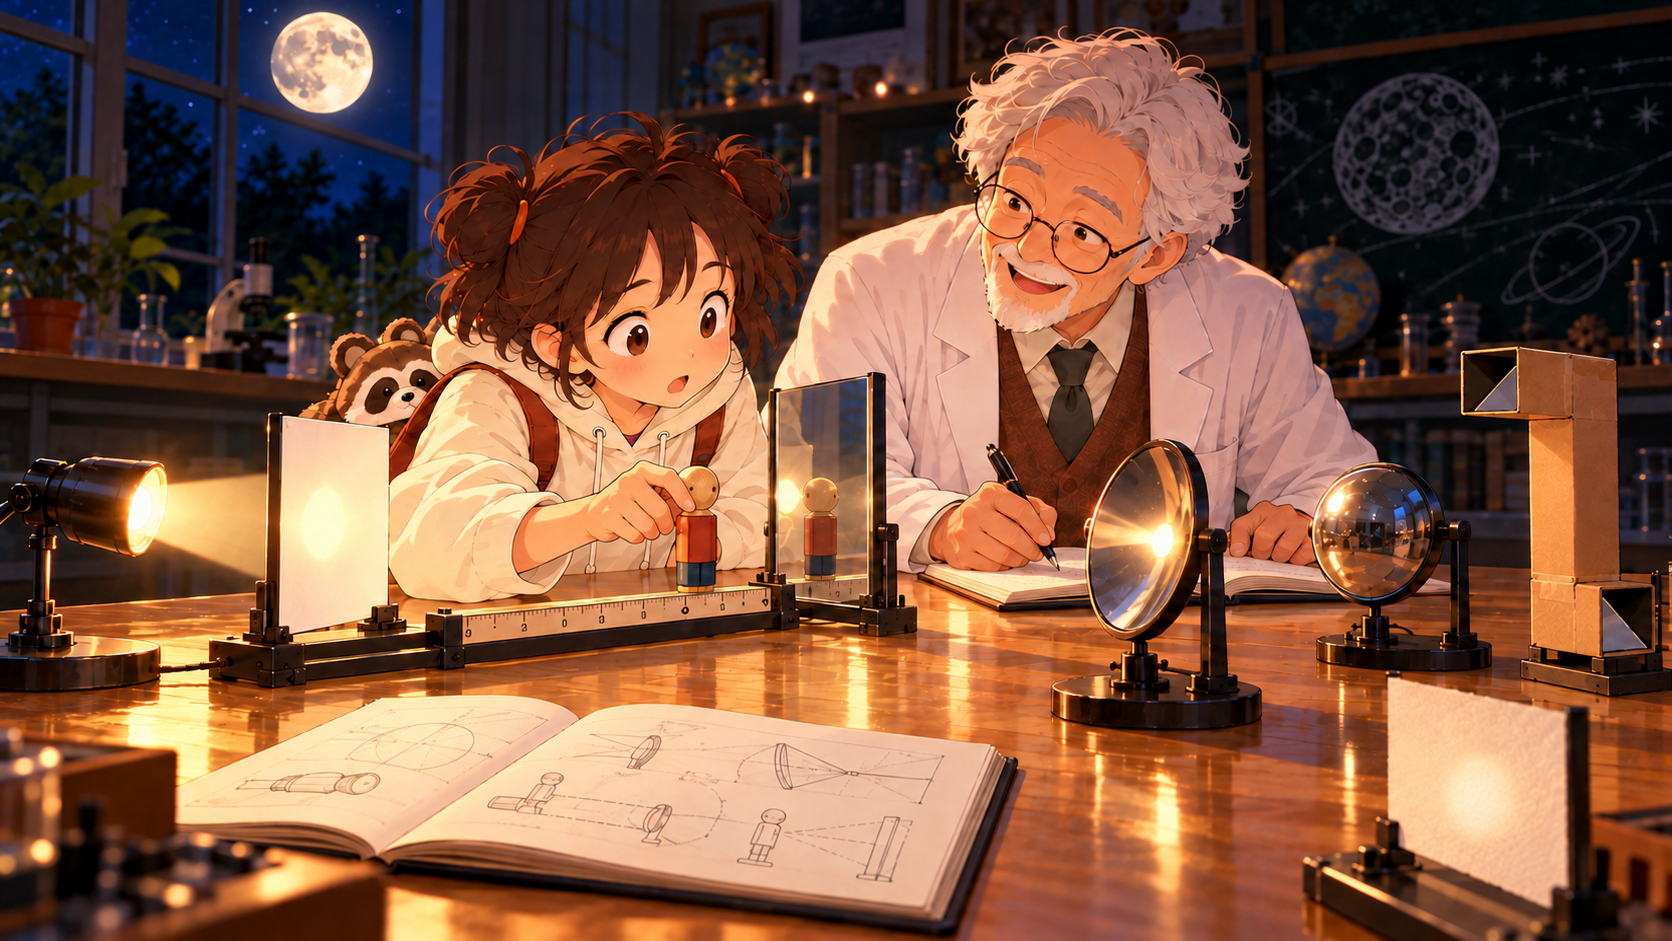
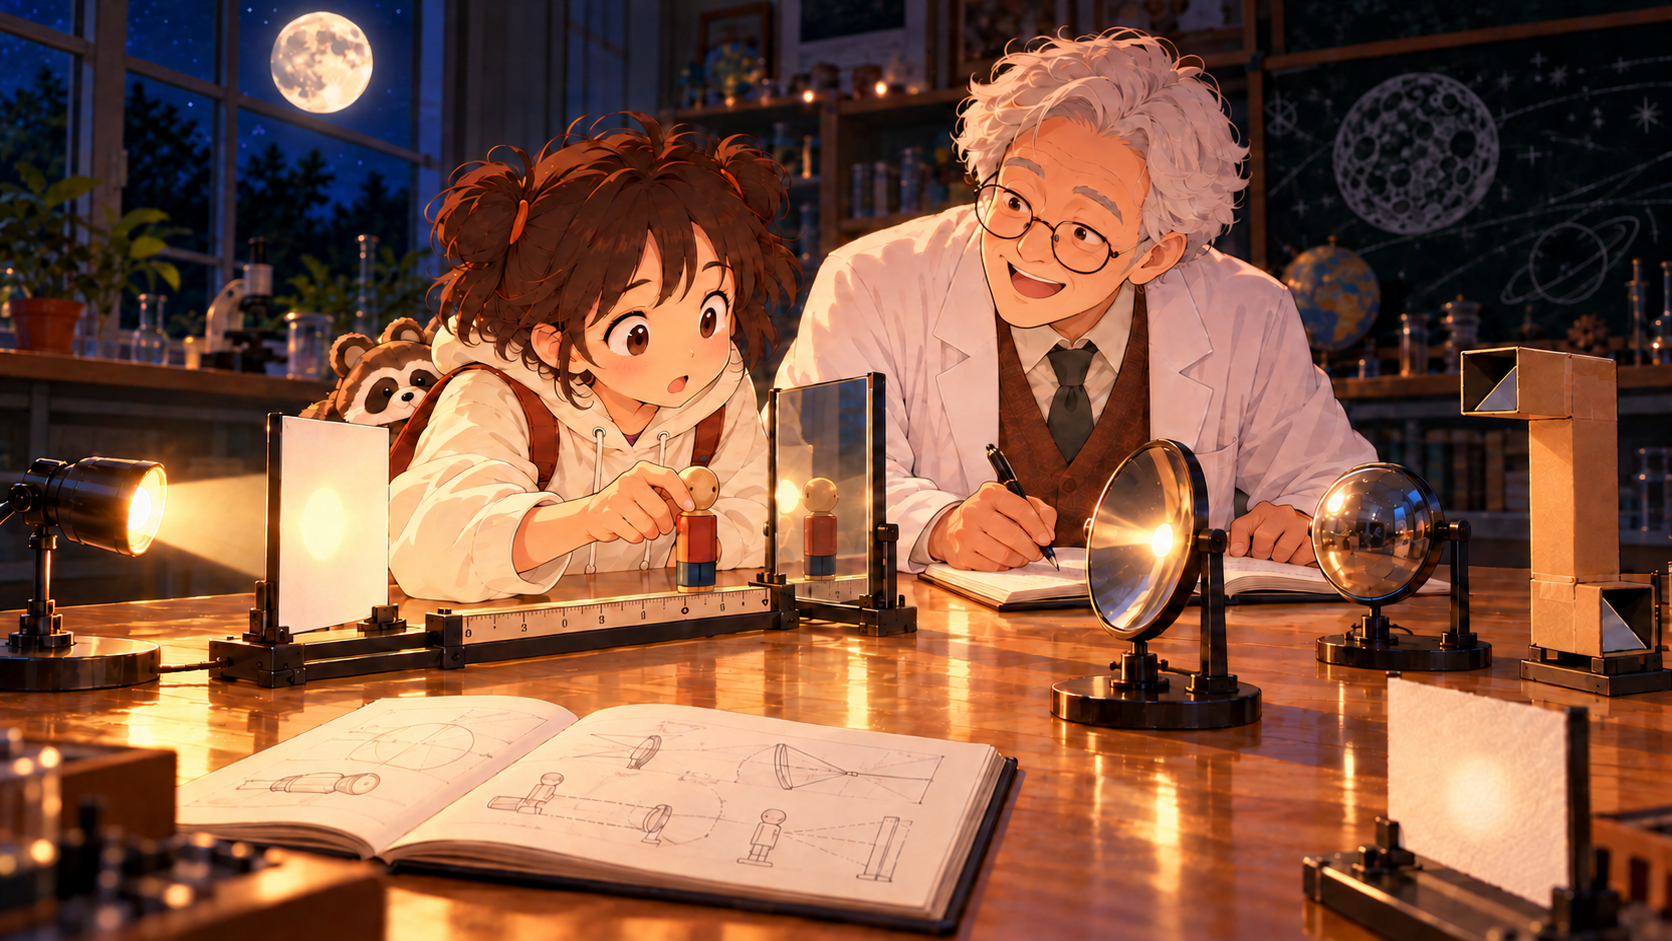
Correct Grandpa appearances in units 1.1 and 1.2

diff --git a/units/1/parts/1.1/index.html b/units/1/parts/1.1/index.html
@@ -362,7 +362,7 @@
         <p>夜裡，電視螢幕亮著，阿公在檯燈下讀書，窗外月光灑進屋裡。從這個熟悉的夜晚出發，沿著光的路徑，看看光如何讓我們看見，也如何形成影子。</p>
       </div>
       <figure class="hero-art">
-        <img src="assets/unit-1-light-title.png" alt="夜晚的實驗室裡，小葵和阿公觀察三個小孔的直線光路、球體在屏幕上形成的影子，以及地球和月球模型。">
+        <img src="assets/unit-1-light-title.png?v=clean-shaven-grandpa" alt="夜晚的實驗室裡，小葵和阿公觀察三個小孔的直線光路、球體在屏幕上形成的影子，以及地球和月球模型。">
       </figure>
     </div>
   </header>
@@ -403,7 +403,7 @@
                 <figure class="scene-example">
                   <div class="scene-example-head"><h3>阿公看見被燈光照亮的書</h3></div>
                   <p class="scene-summary">夜裡，檯燈照亮書頁；書頁反射的光進入阿公的眼睛。</p>
-                  <img class="scene-image" src="assets/reflected-light-to-eye-night-readable.webp" alt="夜晚的阿公看著檯燈照亮的書；書頁上的內容清楚可見，反射光進入他的眼睛。" loading="lazy" decoding="async">
+                  <img class="scene-image" src="assets/reflected-light-to-eye-night-readable.webp?v=clean-shaven-grandpa" alt="夜晚的阿公看著檯燈照亮的書；書頁上的內容清楚可見，反射光進入他的眼睛。" loading="lazy" decoding="async">
                   <figcaption class="scene-path"><span class="scene-path-label">阿公的光路</span><span>光源</span><span class="path-arrow">→</span><span>書頁</span><span class="path-arrow">→</span><span>眼睛</span></figcaption>
                 </figure>
               </div>

diff --git a/units/1/parts/1.2/index.html b/units/1/parts/1.2/index.html
@@ -30,7 +30,7 @@
         <p>阿公把鏡子立在實驗桌上，遞給小葵一支手電筒：「照照看，光會跑去哪裡？」光束轉向後落在白紙上，小葵又在鏡中看見自己。她追問：「鏡中的我在哪裡？」</p>
       </div>
       <figure class="hero-figure">
-        <img src="assets/optics-lab-opening.png" alt="夜晚的光學實驗室裡，小葵和阿公一起觀察光源、鏡面、屏幕與光路器材。" width="1672" height="941" fetchpriority="high">
+        <img src="assets/optics-lab-opening.png?v=clean-shaven-grandpa" alt="夜晚的光學實驗室裡，小葵和阿公一起觀察光源、鏡面、屏幕與光路器材。" width="1672" height="941" fetchpriority="high">
               <figcaption>小葵和阿公準備探索平面鏡與曲面鏡的反射。</figcaption>
       </figure>
     </div>

diff --git a/units/1/parts/1.2/assets/README.md b/units/1/parts/1.2/assets/README.md
@@ -1,4 +1,4 @@
 # Part 1.2 圖像素材
 
-- `optics-lab-opening.png`：依使用者在本次工作提供的光學實驗室情境圖忠實匯出，放在頁首標題旁，作為八張學習內容共用的故事場景。尺寸 1672 × 941。
+- `optics-lab-opening.png`：依使用者提供的光學實驗室情境圖製作，放在頁首標題旁，作為本單元共用的故事場景；阿公造型依共用人物設定修正為無鬍子。尺寸 1672 × 941。
 - 共用人物頭像位於專案根目錄 `shared-assets/characters/dialogue-character-avatars.png`；頁面以 CSS 裁切左右半幅，不在本單元素材夾存放副本。
